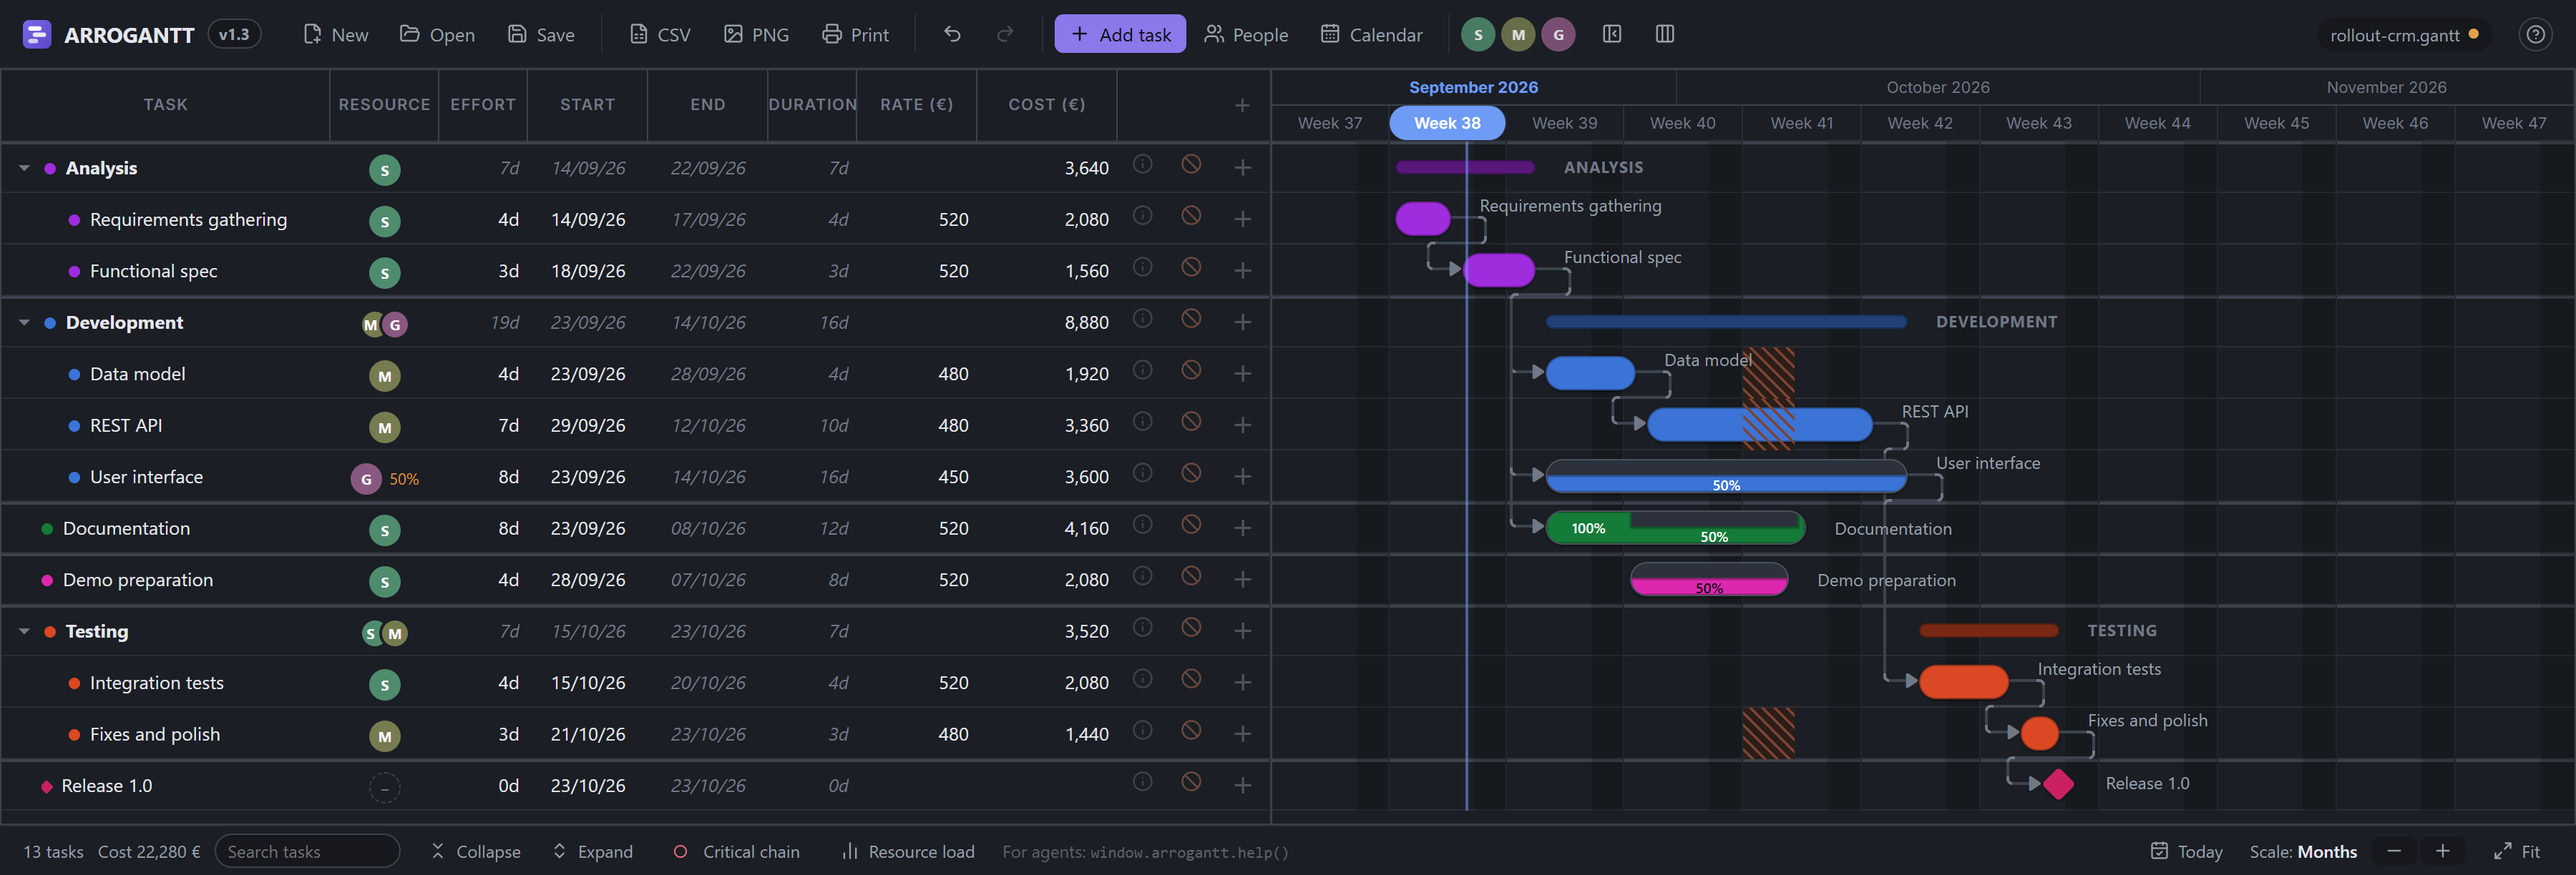
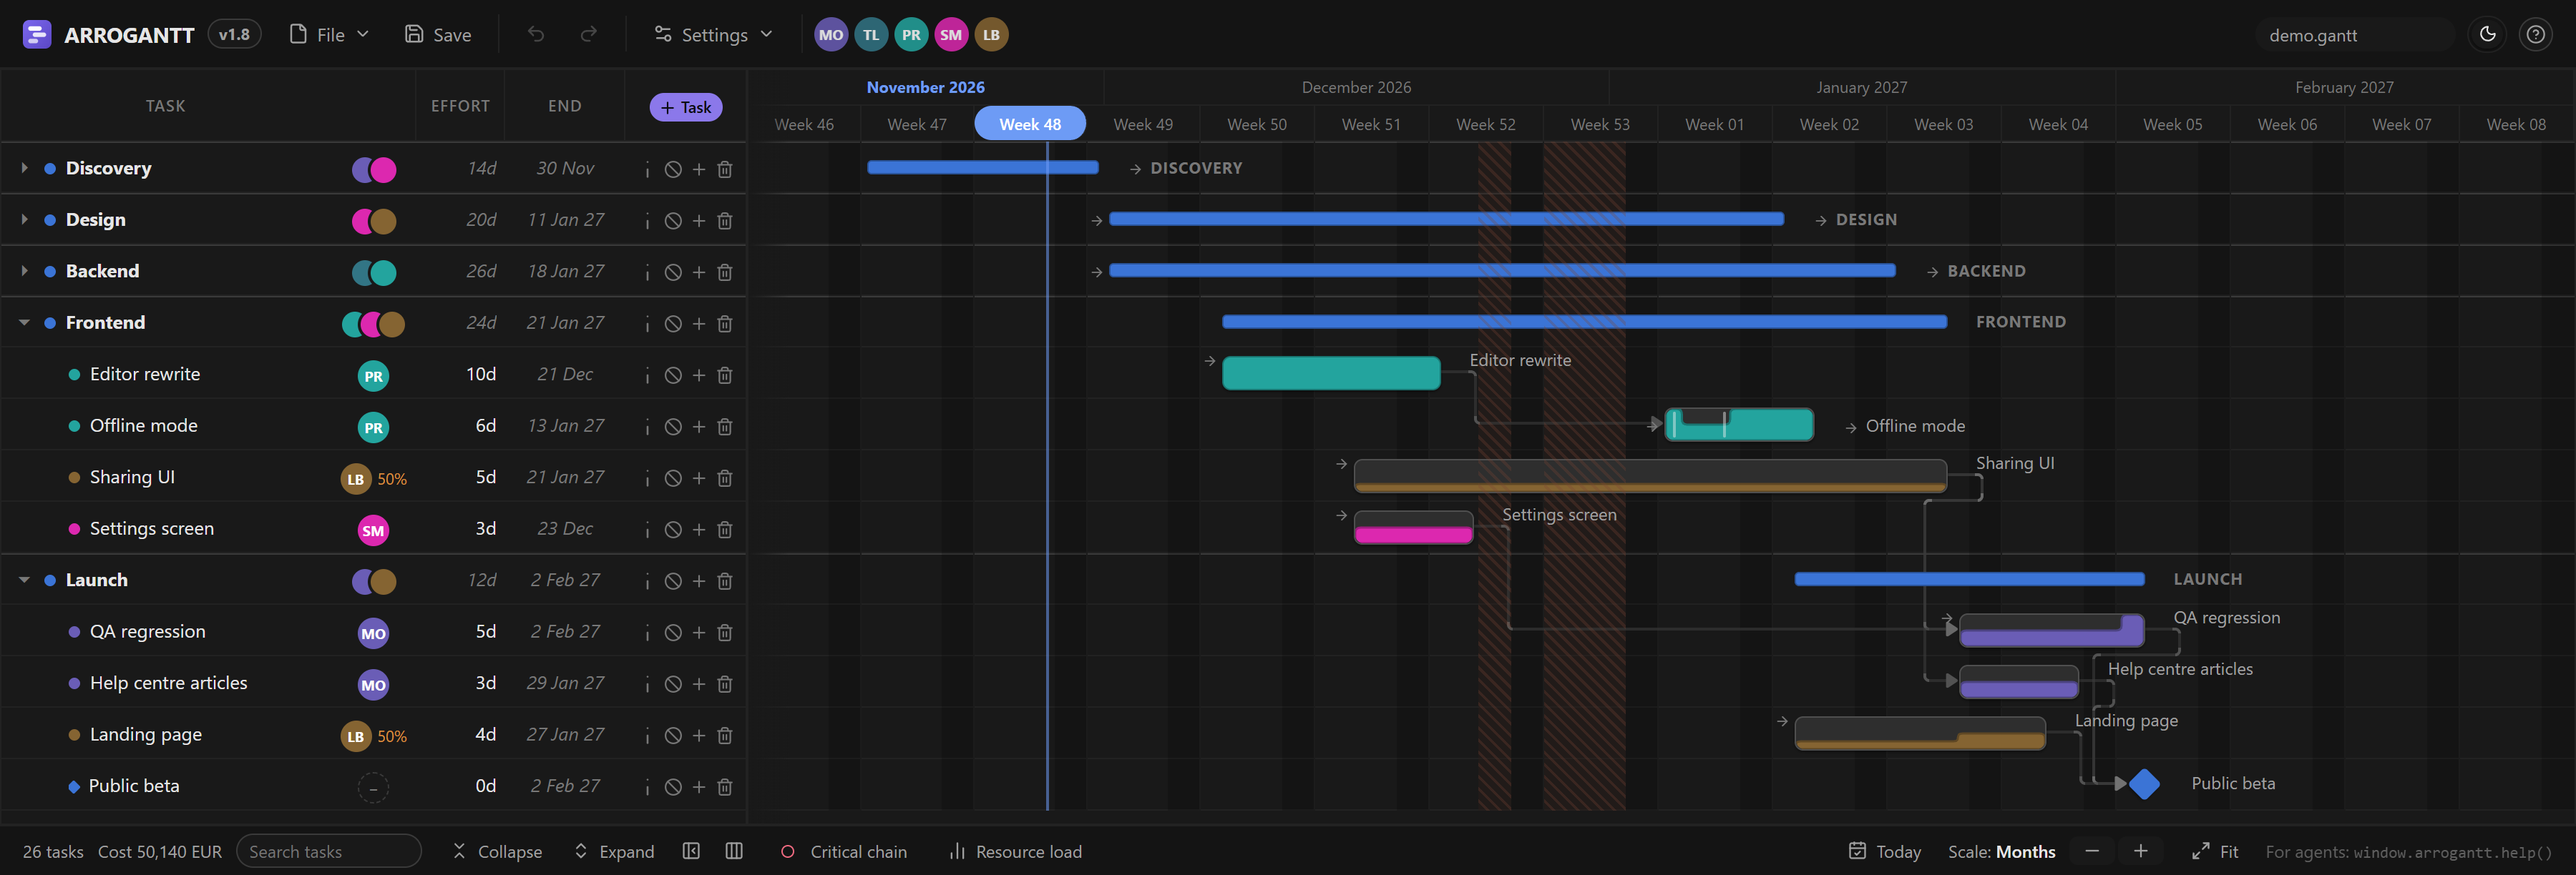
Docs, help and screenshots match v1.8; a committed demo plan

diff --git a/src/gantt/HelpDialog.tsx b/src/gantt/HelpDialog.tsx
@@ -185,17 +185,23 @@ export function HelpDialog({ onClose }: { onClose(): void }) {
     >
       <p className="dialog__hint dialog__hint--wide">
         A task declares two things: how much work it costs and from when it may start. Everything
-        else — duration, end date, who is holding up whom — is computed by the engine, and cannot be
-        typed by hand.
+        else — duration, end date, who is holding up whom — is computed by the engine. The one
+        exception is a task on fixed dates, below.
       </p>
 
       <section className="help__section">
         <h3>Effort and start are inputs, the end is a result</h3>
         <p>
           <strong>Effort</strong> is the work the task costs, in person-days. <strong>Start</strong>{' '}
-          is the day before which it cannot begin. <strong>End</strong> does not exist as a stored
-          value: it depends on how much capacity the assigned person can actually give it, day by
-          day.
+          is the day before which it cannot begin. <strong>End</strong> is not typed: it depends on
+          how much capacity the assigned person can actually give it, day by day.
+        </p>
+        <p>
+          The exception is work whose dates are already a fact — a workshop, something finished last
+          week. Switch off <strong>Auto end</strong> in the task's details and its bar stays on the
+          dates you give it: no dependency or contention moves it. <strong>Pace</strong>, in the
+          same panel, holds a task to an exact share of its person, for all of it or for periods; at
+          0% it is paused.
         </p>
       </section>
 
@@ -261,14 +267,14 @@ export function HelpDialog({ onClose }: { onClose(): void }) {
         <h3>The red outline is the critical chain</h3>
         <p>
           Tasks outlined in <strong>red</strong> are the ones the end date depends on: starting them
-          later, or giving them one more day of work, moves it. In the row's detail the{' '}
-          <strong>float</strong> says how many days a task can slip before it moves the end.
+          later, or giving them one more day of work, moves it. A critical task's details say what moves
+          the end: any delay, or only more work.
         </p>
         <p>
           This is not the textbook critical path, which only looks at dependencies. Here a person
           split between two tasks stretches both of them, so a task can be critical without
           depending on anything, purely because it shares a resource with the chain — and the
-          detail says which of the two cases it is. A <strong>contention</strong> is resolved by
+          details say which of the two cases it is. A <strong>contention</strong> is resolved by
           moving or reassigning another task of that person's; a sequence criticality is resolved
           by shortening the chain.
         </p>

diff --git a/src/gantt/serialization.test.ts b/src/gantt/serialization.test.ts
@@ -1,4 +1,5 @@
 import { describe, expect, it } from 'vitest';
+import demoText from '../../docs/demo.gantt?raw';
 import { DEFAULT_CALENDAR } from '../scheduler';
 import { validateCurrency, type RateOverride } from './cost';
 import { buildPlan } from './plan';
@@ -272,6 +273,12 @@ describe('the file the app writes, the app can reopen', () => {
     const text = serializeProject(poisoned());
     expect(text).toContain('"ghost"');
     expect(text).not.toContain('"solved"');
+  });
+
+  it('opens docs/demo.gantt, the plan the docs and screenshots are made from', () => {
+    const demo = deserializeProject(demoText);
+    expect(demo.tasks.length).toBeGreaterThan(20);
+    expect(solve(demo).schedule.projectEnd).toBeInstanceOf(Date);
   });
 });
 

diff --git a/docs/view.md b/docs/view.md
@@ -105,7 +105,7 @@ the HelpDialog diagram. The `→` between a period row's two dates is the word
 - **An opened plan is collapsed and fitted at once.** Status-bar count is the
   plan's, not the screen's. Open branches are view state: nothing marks the
   file dirty.
-- Every way in (toolbar, drag-drop, draft, `loadText`) shares one call; fit
+- Every way in (File menu, drag-drop, draft, `loadText`) shares one call; fit
   runs after the load. **Undo is not an opening**: same restore path, keeps
   viewport, zoom, closed branches.
 
@@ -185,8 +185,8 @@ the HelpDialog diagram. The `→` between a period row's two dates is the word
   ([dhtmlx.md](dhtmlx.md)); the init effect builds from the selection before
   `gantt.init()`.
 - Columns: inputs (name, resource, effort, start) + derived **end and
-  duration**, faint italic, **no editor declared**. A summary's
-  effort/resource/start are refused the same way.
+  duration**, faint italic, **no editor declared** (a fixed End: plain ink).
+  A summary's effort/resource/start are refused the same way.
 - **The name cell carries a native `title` with the full name**, unconditional
   — the cell clips with an ellipsis at its own default width, and no render
   measures which rows overflow. The rich tooltip stays on the bars.
@@ -249,17 +249,16 @@ the HelpDialog diagram. The `→` between a period row's two dates is the word
 ## Details panel
 
 - **A panel docked right of the chart** (`TaskPanel`), not a modal: opened by
-  the row's (i), it shows the selected task, follows the selection and closes
+  the details button on the row or the bar, it shows the selected task, follows the selection and closes
   when it clears, on × or on Escape. The chart narrows; the status bar spans both.
 - **Every change applies at once** through `updateTask`, one undo step each:
   text, number and date fields on leaving them (or Enter; Escape takes the edit
-  back), select, colour and checkboxes on change, pace rows on leaving the
-  section (a row added or removed at once). A refused value reverts and says why.
+  back), select, colour and switches on change, sliders on release (a pace row
+  added or removed at once). A refused value reverts and says why.
 - Measures float for its criticality note (per change, bounded by
   `CRITICAL_CHAIN_LIMIT`); holds
   progress, colour, and delete (with subtree + dependency cleanup).
-- Only a task **with subtasks** confirms deletion. The opener button names its
-  task.
+- Only a task **with subtasks** confirms deletion.
 - **Auto end is the switch** (on the End row): on, the end is computed and
   read-only; off fixes it at the start plus the effort in working days
   (`endFromEffort`), and End becomes a date field. Back on hands the end to the
@@ -274,7 +273,7 @@ the HelpDialog diagram. The `→` between a period row's two dates is the word
 - `pullFromView` tells the two apart by the row: both ends off the solved
   dates is a move, one is an edge.
 - A dependency drawn into a fixed task is kept and inert.
-- **The description is a panel-only field**: a textarea last in the grid, on
+- **The description is a panel-only field**: a textarea section of the panel, on
   summaries as much as on leaves. It has no surface on the chart — no row
   icon, no tooltip, no column — and reaches a reader through the panel, the
   CSV and the agent API instead.
@@ -285,13 +284,11 @@ the HelpDialog diagram. The `→` between a period row's two dates is the word
     writes — the panel, the agent API and the parser.
   - Whitespace-only reads as empty in the panel and removes the text; the
     agent API stores what it is given, `''` and `null` apart.
-- **Pace (`.taskinfo__pace`) is the task's twin of a person's availability**:
-  an optional default share plus periods, on `PeriodRowList` and `PercentCell`
-  as People's list is. Leaves with effort only — hidden on a summary and while
-  the task is a milestone.
-  - Percent in the form, fraction in the model. The default goes back **only
-    if retyped**: the field shows a rounded figure, and writing it back would
-    change a share nobody touched. Empty = not fixed.
+- **Pace (`.taskpanel__pace`) is the task's twin of a person's availability**:
+  an optional default share plus periods, on `PeriodRowList` as People's list
+  is. Leaves with effort only — hidden on a summary and while the task is a
+  milestone.
+  - Percent in the panel, fraction in the model. Auto = not fixed.
   - **The rows show dates, the model holds days of the task**: `datePeriods`
     and `undatePeriods` against the plan as it stands (`taskDays`).
   - A closed day at either end of a row gives way to the working day inside
@@ -300,7 +297,7 @@ the HelpDialog diagram. The `→` between a period row's two dates is the word
     use; it refuses periods sharing a day, so an overlapped row
     (`overlapRefused`) says what will be refused, not *overridden*.
   - Row menu *Set pace from here…* (leaf with effort) opens the panel and adds
-    one period on the pointed day (grid: the solved start), percent focused. A
+    one period on the pointed day (grid: the solved start). A
     day outside the task, here and from *Add period*, stands for the task's
     nearest day. Label wraps to line two.
   - **A new period starts at the share the task already has there**, unrounded
@@ -310,7 +307,7 @@ the HelpDialog diagram. The `→` between a period row's two dates is the word
   App.css): a top line with the kind, `n of N` and ‹ › through the row order
   (`revealTask` + `selectTask`), and ×; then the name as an input that reads
   as the title until pointed at or focused; then a label/value list
-  (`.taskpanel__fields`, 76px labels, 34px rows). Its controls show as text at
+  (`.taskpanel__fields`). Its controls show as text at
   rest and take a tint under the pointer.
   - **A day is text, the calendar on a click, − / + on either side**:
     `showPicker()` on an invisible native date input under the text; a step is
@@ -419,10 +416,10 @@ the HelpDialog diagram. The `→` between a period row's two dates is the word
 
 ## Disabled tasks
 
-- Toggled from the row menu, the details panel's *Disabled* checkbox, and a
-  ban-icon grid column (stays at full opacity once off). All three go through
-  `updateTask`'s `TaskPatch`.
-- Drawn state is the **effective** one (`solved.disabledIds`); menu and dialog
+- Toggled from the row menu, the details panel's *Disabled* switch, and the
+  ban icon in the row's and the bar's actions. All go through `updateTask`'s
+  `TaskPatch`.
+- Drawn state is the **effective** one (`solved.disabledIds`); menu and panel
   show the row's **own** flag.
 - Bar dimmed (opacity + desaturating filter). Grid row: most cells' ink goes
   muted; End/Duration keep their fainter ink (reason in the `gantt.css`
@@ -455,7 +452,7 @@ the HelpDialog diagram. The `→` between a period row's two dates is the word
   outline-offset + outline-width`, so the offset is not the lever and the
   body's radius is; shrinking it reads squared for no visible gain.
 - **Milestone = diamond**: same colour, same ring, same dimming; grid dot
-  becomes a diamond; dialog heading flips to *Milestone* at effort 0.
+  becomes a diamond; the panel's kind flips to *Milestone* at effort 0.
 - Milestone day placement: one that closes something is drawn where that
   thing ends; one nothing runs into sits on the morning of its date. Decided
   from **predecessors**, never the start constraint.
@@ -467,7 +464,7 @@ the HelpDialog diagram. The `→` between a period row's two dates is the word
   every solve in `applySolution` and `loadProject`, a `toDay` past the task's
   last working day is cut to it and a period starting after it is removed.
   - Inside the edit's own `applySolution`, before `onChange`: the cut is in
-    the history step of whatever shortened the task, on every path — dialog,
+    the history step of whatever shortened the task, on every path — panel,
     drag, grid, agent API.
   - On load it cuts the project the caller then snapshots, so a file reaching
     past an end opens clean, not dirty.
@@ -502,7 +499,7 @@ the HelpDialog diagram. The `→` between a period row's two dates is the word
   to it; outside the bar or inside a period it adds nothing.
 - **A drag previews by re-solving without `onChange`** (`preview`, in
   `GanttChart`'s init effect); its release is one `updateTask` through
-  `onSetPacePeriods`, like the dialog's Save.
+  `onSetPacePeriods`, like a panel edit.
 - **Every move starts from every task's list at the press** (`atPress`), the
   trim applied to the preview only: a level raised and lowered again in one
   drag gives back what it cut, on the dragged task and on its neighbours.
@@ -666,8 +663,8 @@ the HelpDialog diagram. The `→` between a period row's two dates is the word
 
 ## Export dialog
 
-One dialog (`ExportDialog.tsx`) on both the PNG and the Print button; `action`
-decides the title and the confirm label. CSV starts at the click: nothing to
+One dialog (`ExportDialog.tsx`) behind both *Export PNG* and *Print…* in the
+File menu; `action` decides the title and the confirm label. CSV starts at the click: nothing to
 ask.
 
 - **Three questions, and no fourth**: Rows (*The whole plan* / *As I see it*,

diff --git a/README.md b/README.md
@@ -22,7 +22,7 @@ Assign two tasks to the same person, and it happily shows them both full speed,
 in parallel, finishing on time. Reality disagrees.
 
 ARROGANTT flips the model: **effort and start date are inputs; the end date is
-always computed.** A discrete-event scheduler simulates your team. When two tasks
+computed.** A discrete-event scheduler simulates your team. When two tasks
 overlap on the same person, each runs at 50% and stretches accordingly — three
 tasks, 33% each. Move one task and everything sharing its people re-flows. You
 cannot draw a plan that your team can't actually execute.
@@ -44,6 +44,18 @@ the person that causes the contention named on the tooltip.
 **People, part-time, and holidays** — per-person availability (50%, 80%, anything),
 availability periods, absences, and company shutdowns. The time axis is working
 minutes: nights and weekends simply don't exist, so durations never lie.
+
+**Dates that are facts, and a pace you set** — a workshop, or work already
+done, keeps the dates you give it: switch off *Auto end* and nothing in the
+plan moves that bar. *Pace* holds a task to an exact share of its person, for
+all of it or for periods (0% pauses it), and leaves the rest of their day to
+the other tasks.
+
+**Details beside the chart** — select a task and a panel docked on the right
+shows all of it: effort, dates, pace, cost, what it waits for and what it
+blocks. Every edit applies at once, as one undo step. Rows and bars carry
+their own actions where you point, and the whole app comes in light or dark,
+or follows your system.
 
 **What the plan costs, not only when it ends** — give a person a daily rate,
 with periods that layer over time by the same rules as their availability, and
@@ -109,6 +121,9 @@ npm install
 npm run dev        # http://localhost:5173
 ```
 
+To look around a ready-made plan, open [`docs/demo.gantt`](docs/demo.gantt)
+(*File → Open…*): a fictional five-person team, the one the screenshots show.
+
 `npm run build:single` produces a **single self-contained HTML file** — the whole
 app in one artifact you can email, drop on a share, or open from disk.
 
@@ -128,8 +143,7 @@ scheduling semantics.
 
 ## Not implemented (yet)
 
-CSV/Excel import, several resources on one task, per-task fixed or capped
-allocation. The name is a promise: nothing lands before it earns its place.
+CSV/Excel import, several resources on one task. The name is a promise: nothing lands before it earns its place.
 
 ## License
 

diff --git a/docs/file-format.md b/docs/file-format.md
@@ -160,15 +160,15 @@ reason: the task's own free text verbatim, empty when it has none.
 
 ## PNG and print
 
-- `PNG` **draws** the plan (outline, people, calendar axis, every bar) rather
+- *Export PNG* **draws** the plan (outline, people, calendar axis, every bar) rather
   than capturing the chart: only in-view rows are in the DOM and the data area
   is a viewport. The figure grows with the plan, shades weekends/shutdowns,
   marks today, keeps summary shading and milestone diamonds.
-- `Stampa` / Ctrl+P prints that figure: A4 landscape, 24 rows per page, title
+- *Print…* / Ctrl+P prints that figure: A4 landscape, 24 rows per page, title
   and axis repeated, one shared time scale (browsers won't break an image across
   pages — unpaged = cropped). *Save as PDF* in the print dialog **is** the PDF
   export.
-- Both buttons open the **export dialog** first, and the figure is drawn from
+- Both menu entries open the **export dialog** first, and the figure is drawn from
   what it confirms: the row scope (the whole plan, or the tree as the grid
   currently shows it — a closed branch exports its summary and not its
   children) and the column list. Ctrl+P interposes nothing and prints with the

diff --git a/docs/scheduling.md b/docs/scheduling.md
@@ -129,13 +129,14 @@ the plan: 7 ms @ 20 tasks, 41 @ 40, 162 @ 60, 267 @ 100 — plus a search per ta
 for exact figures.
 
 - ≤ 40 tasks: marking re-measured on every edit (~40 ms vs 13 with it off).
-- \> 40: measured only on request (*Calcola catena critica* in the status bar).
+- \> 40: measured only on request (*Compute critical chain* in the status bar).
 - \> 40 after an edit: stale marking stays **dashed** (declares itself old)
   instead of vanishing — never looks measured when it isn't.
 - Undo counts as an edit: re-measure inside the limit, keep dashed past it.
   Opening a file / draft / new project **drops** the marking (different plan).
-- The float *figure* is measured per row when its details open, inside the limit
-  only (a summary costs a search per leaf).
+- The float *figure* is measured for the task whose details are open, inside
+  the limit only (a summary costs a search per leaf); the panel words it in
+  its criticality note.
 
 ## When the simulation stalls
 

diff --git a/docs/verification.md b/docs/verification.md
@@ -334,6 +334,16 @@ script, not the tool), a selector covered by the sticky header, and `open` /
 `wait --load networkidle` timing out on a cold server. The last is why the cold
 restart happens *before* the measurement, not during it.
 
+## Screenshots
+
+- **`docs/demo.gantt` is the plan for screenshots**, kept opening by a test
+  in `serialization.test.ts`. Rebuilt through the agent API and `toText()`.
+- Load it with `fetch('/docs/demo.gantt')` + `arrogantt.loadText(text,
+  'demo.gantt')`: the page stays clean.
+- `docs/assets/` is taken in Dark, default columns, pointer parked:
+  `set viewport 1800 612 2` for `hero.png`, `1800 705 2` with *Resource load*
+  on for `resource-load.png`.
+
 ## Rules of thumb
 
 - **Verify visuals with `getComputedStyle`** — not the attribute, not the data
